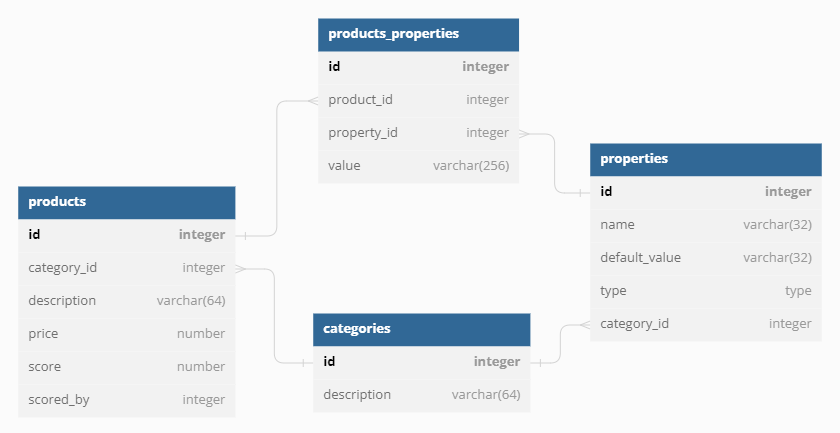
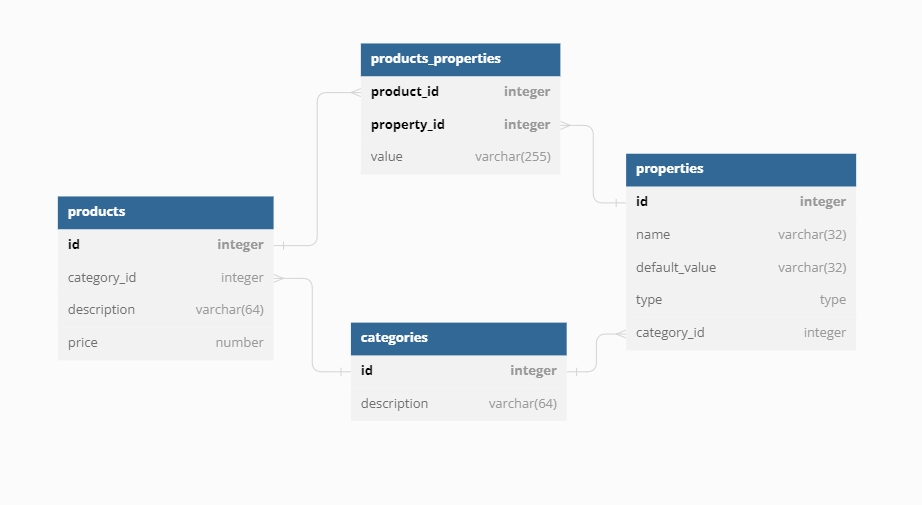
JPA ORM

diff --git a/backend/src/main/java/com/leonardo/productreviewer/models/Property.java b/backend/src/main/java/com/leonardo/productreviewer/models/Property.java
@@ -1,0 +1,34 @@
+package com.leonardo.productreviewer.models;
+
+import com.leonardo.productreviewer.models.enums.Type;
+import jakarta.persistence.*;
+import lombok.*;
+
+import java.util.UUID;
+
+@NoArgsConstructor
+@AllArgsConstructor
+@Builder
+@Data
+@EqualsAndHashCode(of = {"id"})
+
+@Entity
+public class Property {
+
+    @Id
+    @GeneratedValue(strategy = GenerationType.UUID)
+    private UUID id;
+
+    @Column(length = 32, nullable = false)
+    private String name;
+
+    @Column(name = "default_value", length = 32, nullable = false)
+    private String defaultValue;
+
+    @Enumerated(EnumType.STRING)
+    private Type type;
+
+    @ManyToOne
+    @JoinColumn(name = "category_id")
+    private Category category;
+}

diff --git a/backend/src/main/java/com/leonardo/productreviewer/models/Category.java b/backend/src/main/java/com/leonardo/productreviewer/models/Category.java
@@ -1,0 +1,31 @@
+package com.leonardo.productreviewer.models;
+
+import jakarta.persistence.*;
+import lombok.*;
+
+import java.util.Set;
+import java.util.UUID;
+
+@NoArgsConstructor
+@AllArgsConstructor
+@Builder
+@Data
+@EqualsAndHashCode(of = {"id"})
+
+@Entity
+public class Category {
+
+    @Id
+    @GeneratedValue(strategy = GenerationType.UUID)
+    private UUID id;
+
+    @Column(length = 64, nullable = false, unique = true)
+    private String description;
+
+    @OneToMany(mappedBy = "category")
+    private Set<Product> products;
+
+    @OneToMany(mappedBy = "category")
+    private Set<Property> properties;
+
+}

diff --git a/backend/src/main/java/com/leonardo/productreviewer/models/Product.java b/backend/src/main/java/com/leonardo/productreviewer/models/Product.java
@@ -1,0 +1,31 @@
+package com.leonardo.productreviewer.models;
+
+import jakarta.persistence.*;
+import lombok.*;
+
+import java.util.UUID;
+
+@NoArgsConstructor
+@AllArgsConstructor
+@Builder
+@Data
+@EqualsAndHashCode(of = {"id"})
+
+@Entity
+public class Product {
+
+    @Id
+    @GeneratedValue(strategy = GenerationType.UUID)
+    private UUID id;
+
+    @Column(length = 64, nullable = false)
+    private String description;
+
+    private Float price;
+
+    @ManyToOne
+    @JoinColumn(name = "category_id")
+    private Category category;
+
+
+}

diff --git a/backend/src/main/java/com/leonardo/productreviewer/models/ProductProperty.java b/backend/src/main/java/com/leonardo/productreviewer/models/ProductProperty.java
@@ -1,0 +1,28 @@
+package com.leonardo.productreviewer.models;
+
+import jakarta.persistence.*;
+import lombok.*;
+
+@NoArgsConstructor
+@AllArgsConstructor
+@Builder
+@Data
+@EqualsAndHashCode(of = {"id"})
+
+@Entity
+public class ProductProperty {
+
+    @Id
+    @ManyToOne
+    @JoinColumn(name = "product_id")
+    private Product product;
+
+    @Id
+    @ManyToOne
+    @JoinColumn(name = "property_id")
+    private Property property;
+
+    @Column(length = 255, nullable = false)
+    private String value;
+
+}

diff --git a/backend/src/main/java/com/leonardo/productreviewer/models/enums/Type.java b/backend/src/main/java/com/leonardo/productreviewer/models/enums/Type.java
@@ -1,0 +1,7 @@
+package com.leonardo.productreviewer.models.enums;
+public enum Type {
+    INTEGER,
+    DOUBLE,
+    BOOLEAN,
+    STRING
+}
